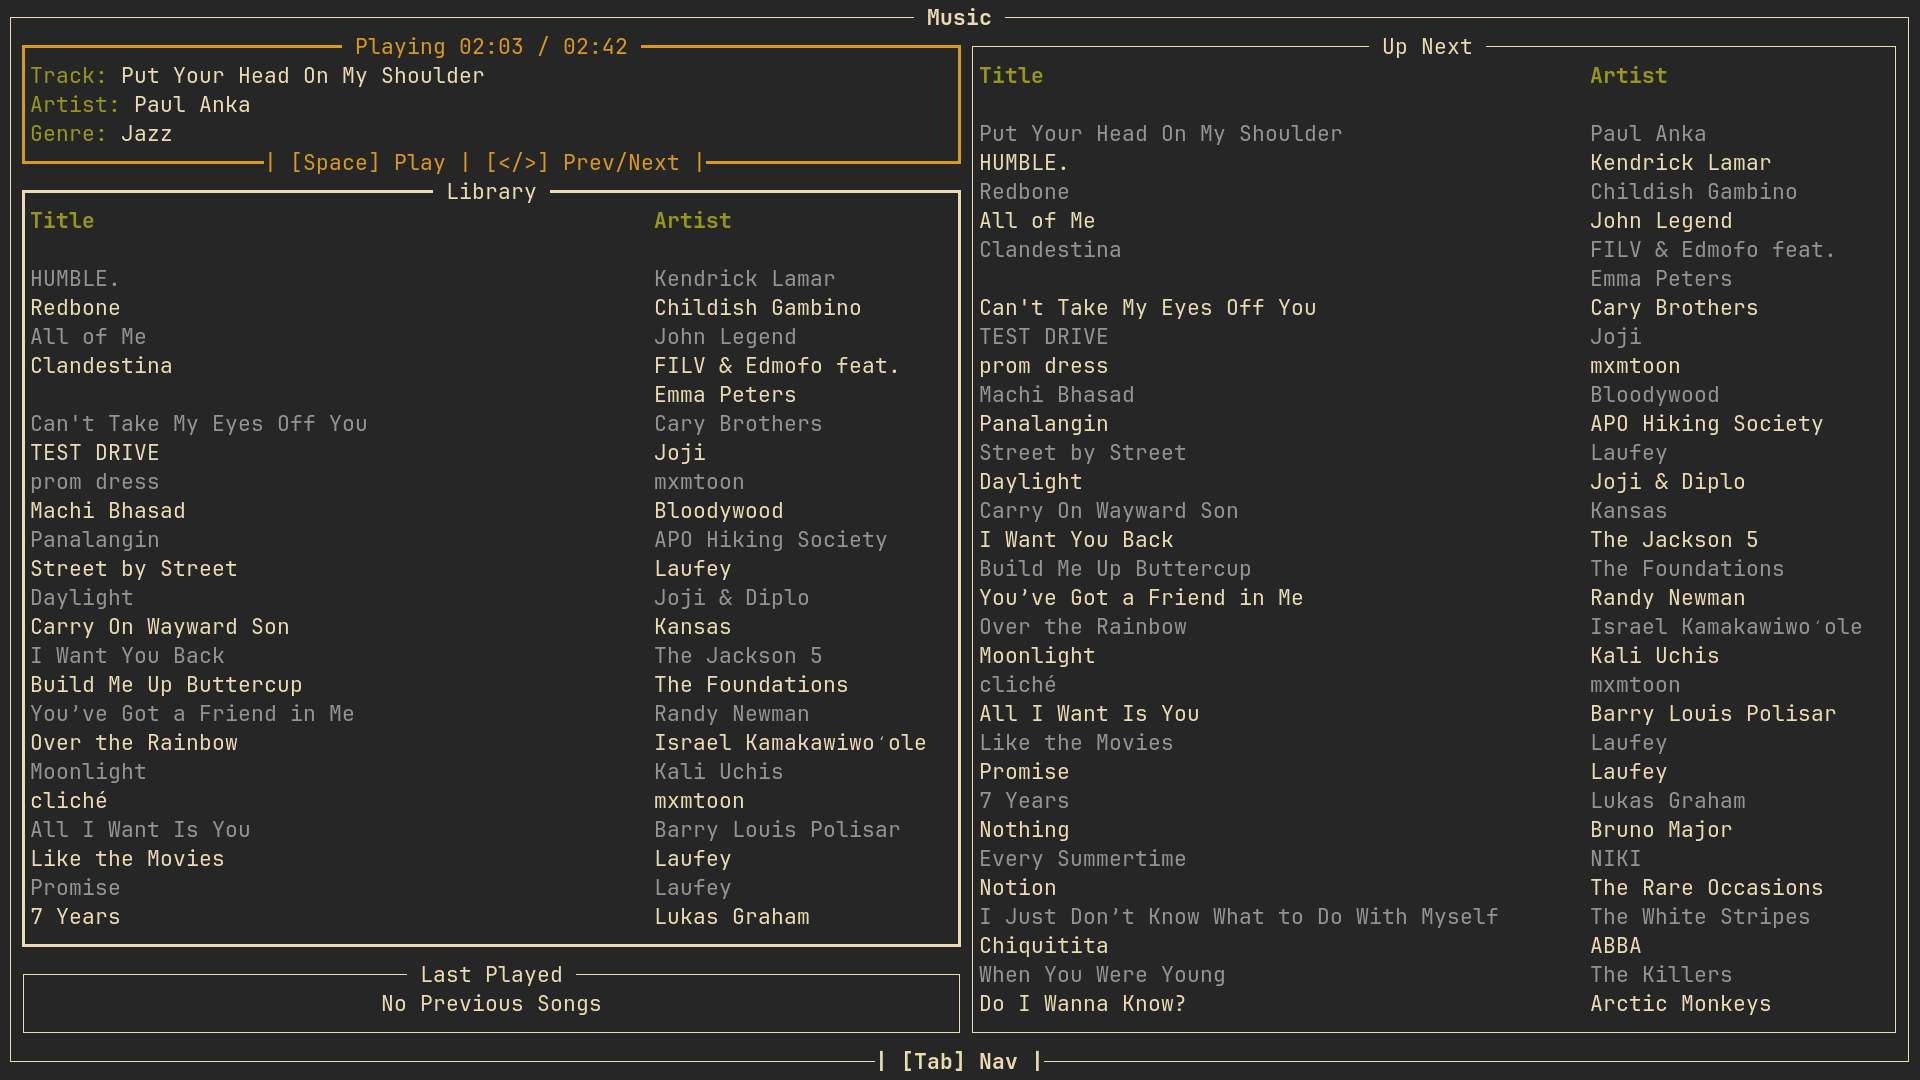
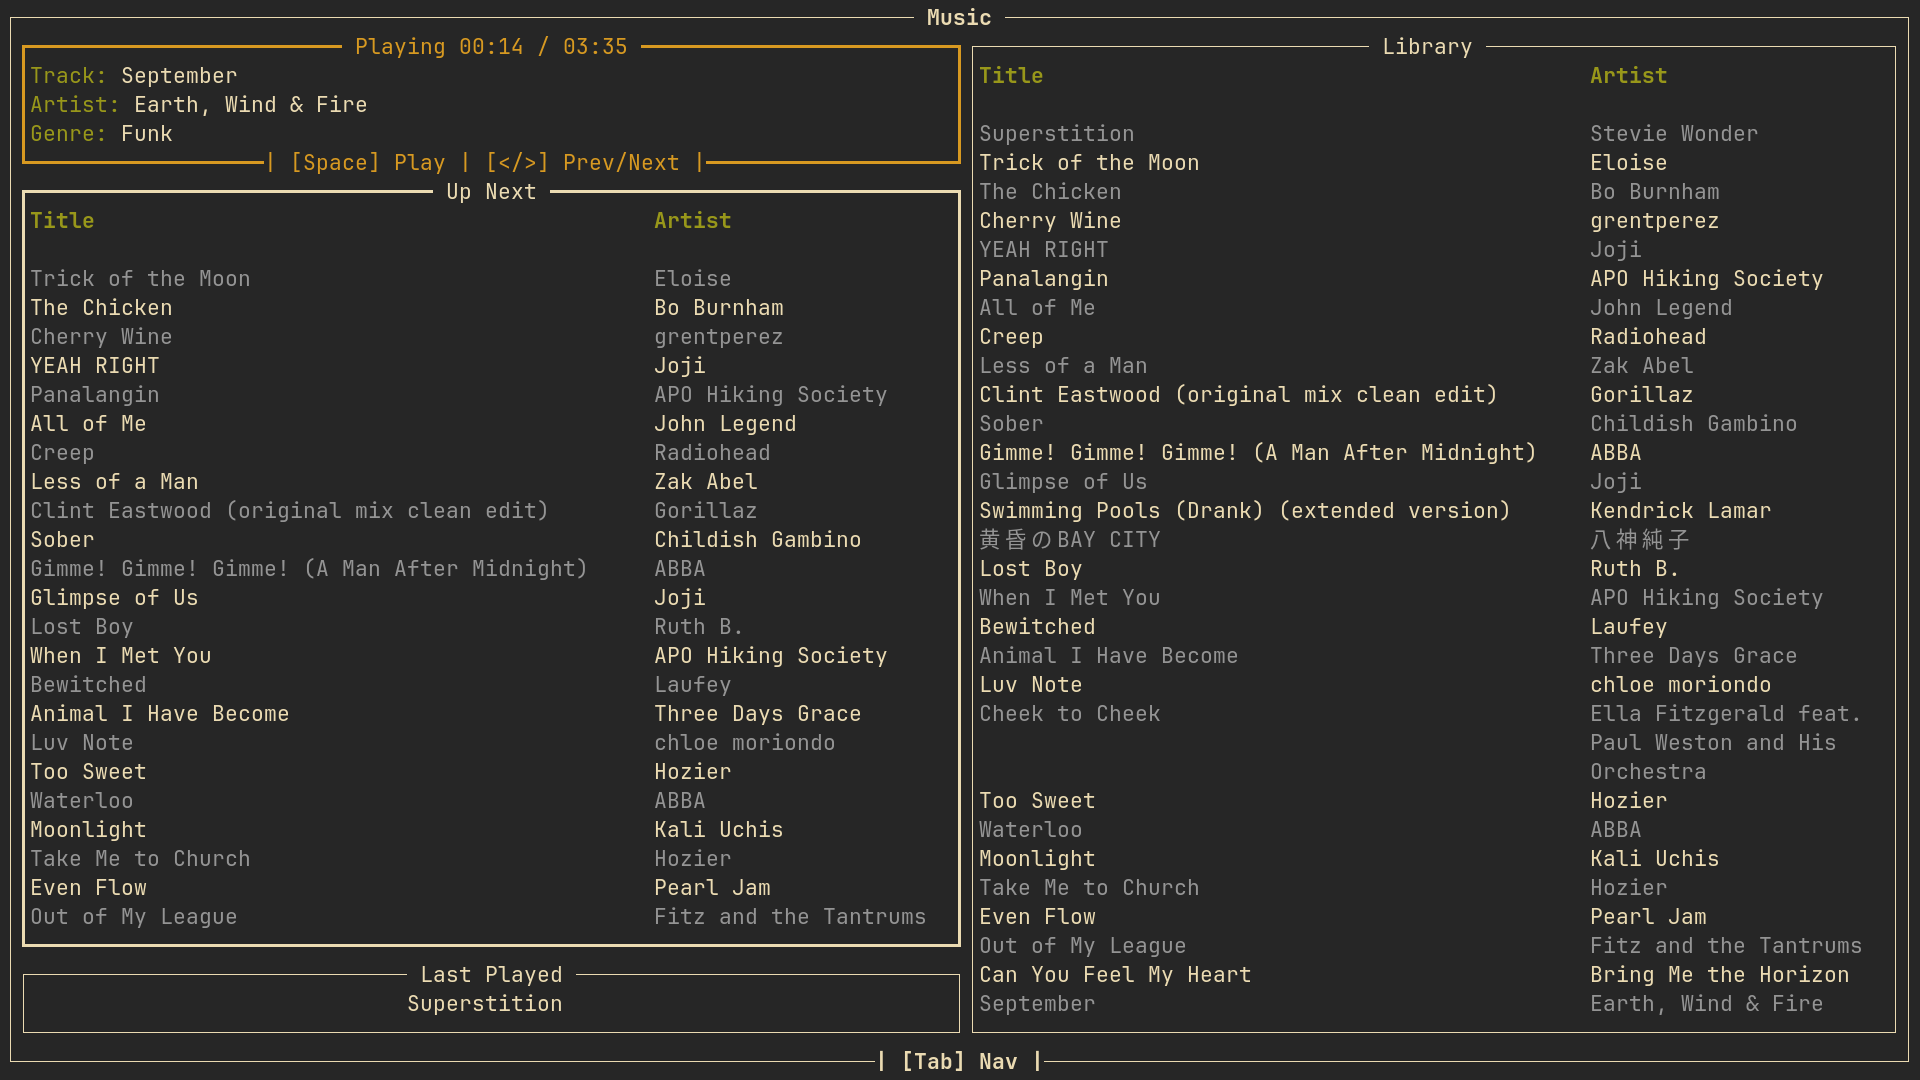
fixed title mismatch + song deletion indexing

diff --git a/src/main.rs b/src/main.rs
@@ -474,7 +474,7 @@ impl App {
         } else {
             widget_next = widget_next.block(
                 Block::bordered()
-                    .title_top(" Library ")
+                    .title_top(" Up Next ")
                     .border_type(BorderType::Thick)
                     .title_alignment(Alignment::Center),
             );
@@ -494,7 +494,7 @@ impl App {
         } else {
             widget_all = widget_all.block(
                 Block::bordered()
-                    .title(" Up Next ")
+                    .title(" Library ")
                     .title_alignment(Alignment::Center),
             );
             frame.render_widget(widget_all, right);

diff --git a/src/input.rs b/src/input.rs
@@ -61,7 +61,7 @@ pub fn handle_events(app: &mut App) -> Message {
             KeyCode::Backspace => {
                 if let NavState::UpNext(table_state) = &app.nav_state {
                     if let Some(selected) = table_state.selected() {
-                        return Message::DeleteNextUp(selected);
+                        return Message::DeleteNextUp(selected + 1);
                     }
                 }
             }
